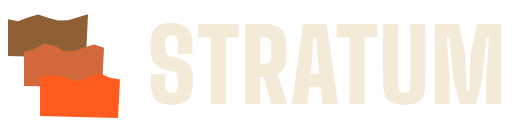
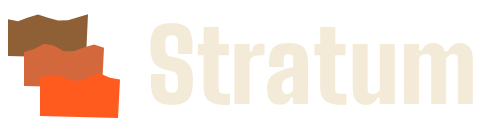
feat(profile): set the lockup wordmark in mixed case
Re-render the dark and light lockups with "Stratum" in mixed case, Big
Shoulders Display 900, outlined before rasterizing (488x128), and set the
header image width to match.

diff --git a/profile/README.md b/profile/README.md
@@ -2,7 +2,7 @@
   <picture>
     <source media="(prefers-color-scheme: dark)" srcset="https://raw.githubusercontent.com/stratum-hq/.github/main/profile/stratum-lockup-dark.png" />
     <source media="(prefers-color-scheme: light)" srcset="https://raw.githubusercontent.com/stratum-hq/.github/main/profile/stratum-lockup-light.png" />
-    <img src="https://raw.githubusercontent.com/stratum-hq/.github/main/profile/stratum-lockup-light.png" alt="Stratum" width="259" />
+    <img src="https://raw.githubusercontent.com/stratum-hq/.github/main/profile/stratum-lockup-light.png" alt="Stratum" width="244" />
   </picture>
 </p>
 
